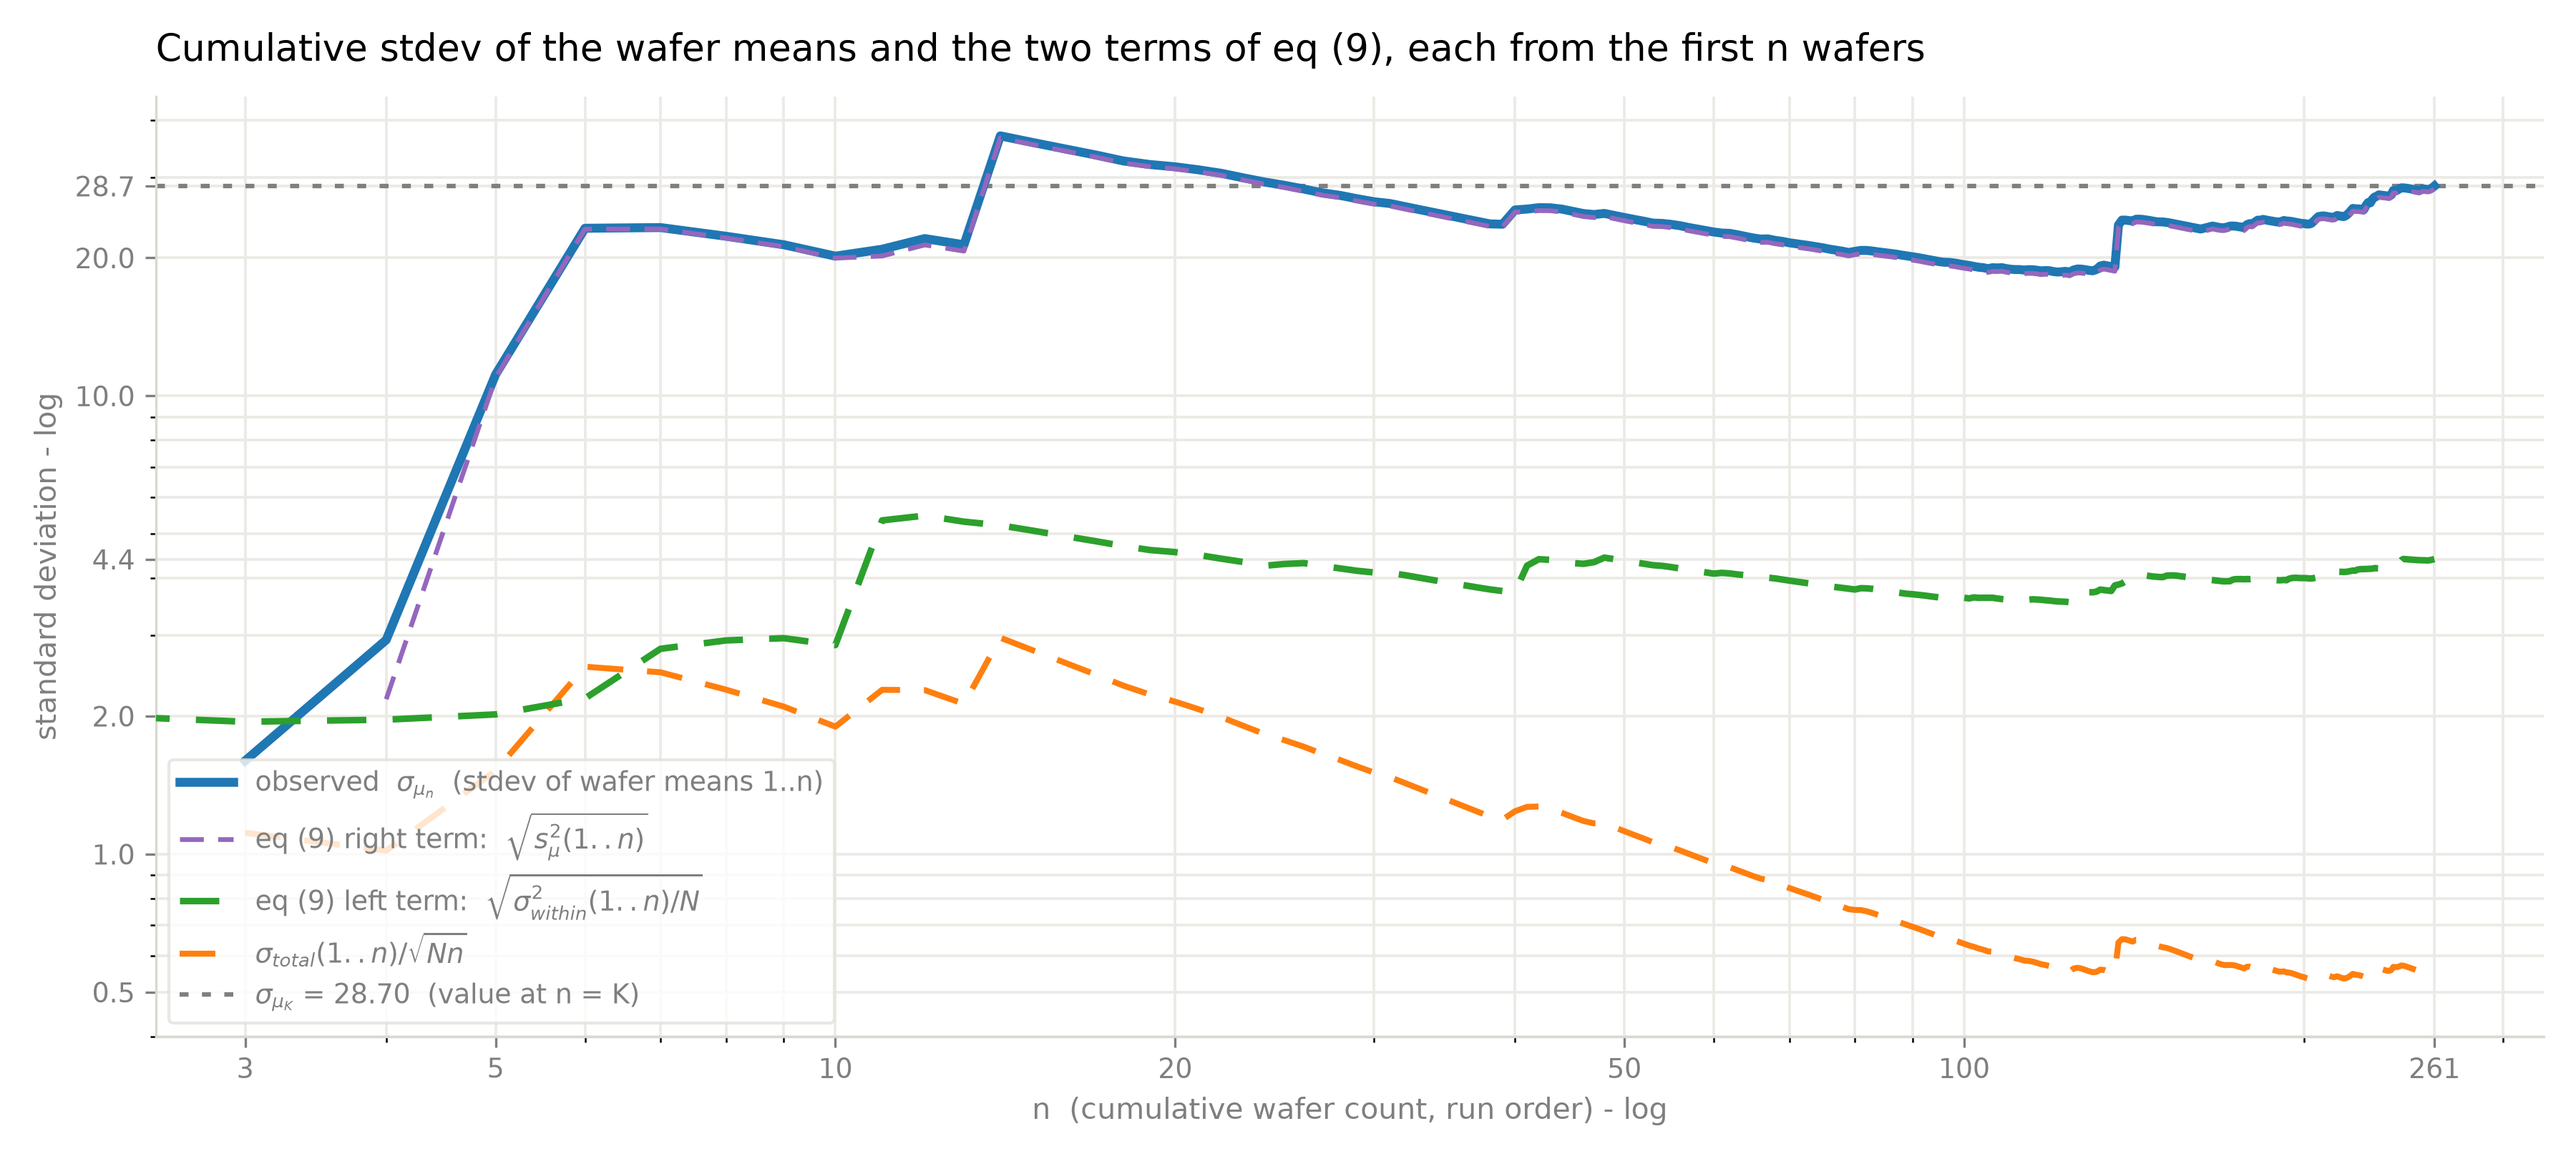
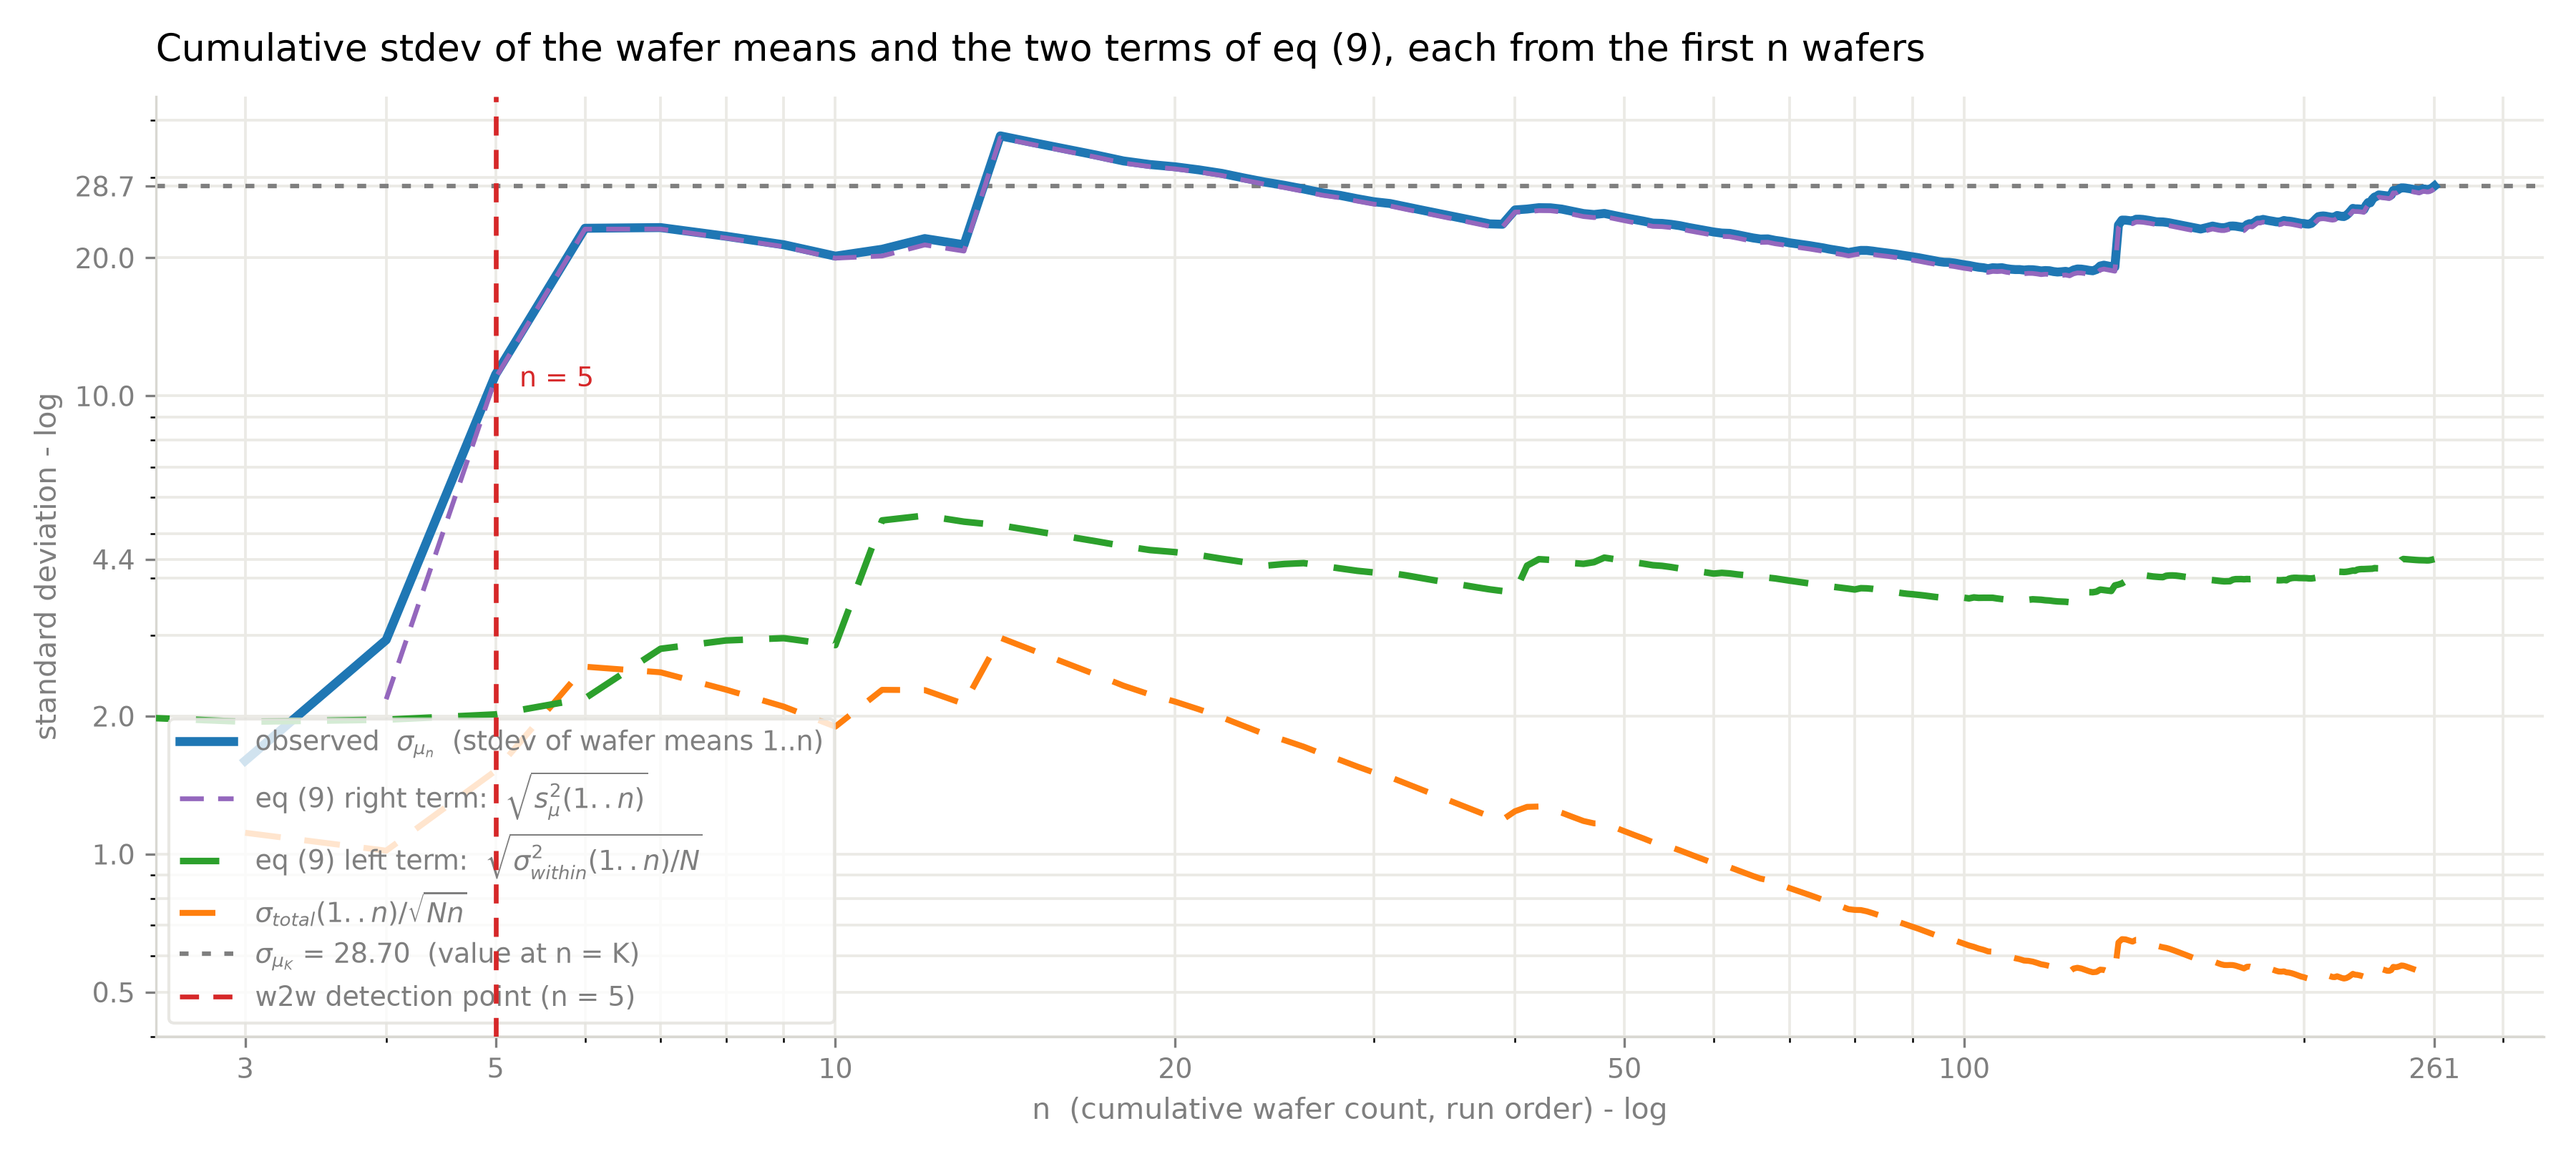
Name and mark the point where the wafer-level term takes over
Call it the w2w detection point, draw it on the figure, and split the text
so that the meaning of each term comes before the reading of the figure.

Claude-Session: https://claude.ai/code/session_01EmRuphkFeGWkDYDUkauFqt

Changed region(s): [[0.0622, 0.6173, 0.3422, 0.8642], [0.1867, 0.3086, 0.2178, 0.3395]]

diff --git a/EDA/Variability/WiW-W2W/wiw_w2w_anova.py b/EDA/Variability/WiW-W2W/wiw_w2w_anova.py
@@ -5,10 +5,11 @@ one-way ANOVA and the variance components, and draws the three figures the docum
 
 Changelog:
 - 0.0.0: initial release.
+- 0.1.0: mark the w2w detection point on the cumulative figure.
 """
 
 __author__ = 'yRocket'
-__version__ = "0.0.0.2026.9.3"
+__version__ = "0.1.0.2026.9.3"
 
 import argparse
 import pathlib
@@ -27,6 +28,7 @@ __all__ = [
     'read_measurements',
     'variance_components',
     'flag_inflated_wafers',
+    'w2w_detection_point',
     'draw_site_value_violin',
     'draw_cumulative_stdev',
     'draw_flagged_wafer_means',
@@ -36,6 +38,7 @@ WAFER_ID_COLUMN: str = 'wafer_id'
 SITE_COLUMN_PATTERN: str = r'^S\d+$'
 BIN_SIZE: int = 15                       # wafers per violin
 MOVING_WINDOW: int = 15                  # wafers per moving average
+DETECTION_RATIO: float = 0.98            # the right term counts as the whole spread above this share of it
 FIGSIZE: tuple = (12.0, 5.4)
 REFERENCE_WIDTH: float = 12.0            # the width BASE_FONT_SIZE was chosen for
 BASE_FONT_SIZE: float = 9.0
@@ -117,6 +120,19 @@ def flag_inflated_wafers(values: np.ndarray, alpha: float = 0.05) -> pd.DataFram
         'p_value': p_value,
         'flagged': p_value < alpha / wafer_count,
     })
+
+
+def w2w_detection_point(observed: np.ndarray, right_term: np.ndarray, ratio: float = DETECTION_RATIO) -> int:
+    """Return the first n from which the wafer-level term carries the whole spread of the wafer means.
+
+    Below that n the site error still accounts for a visible share of the observed spread, so the
+    wafer-to-wafer part cannot be told apart from it.
+    """
+    share = right_term / observed
+    reached = np.flatnonzero(np.nan_to_num(share) >= ratio)
+    if reached.size == 0:
+        raise ValueError(f"the wafer-level term never reaches {ratio:.0%} of the observed spread")
+    return int(reached[0]) + 1
 
 
 def _style_axes(axes: plt.Axes, title: str, xlabel: str, ylabel: str, font_size: float) -> None:
@@ -207,6 +223,11 @@ def draw_cumulative_stdev(frame: pd.DataFrame, figure_path: pathlib.Path) -> Non
               zorder=3, label=r"$\sigma_{total}(1..n)/\sqrt{Nn}$")
     axes.axhline(observed[-1], color=COLOR_INK, lw=1.5, ls=(0, (2, 3)), zorder=2,
                  label=r"$\sigma_{\mu_K}$ = %.2f  (value at n = K)" % observed[-1])
+    detection = w2w_detection_point(observed=observed, right_term=right_term)
+    axes.axvline(detection, color=COLOR_FLAGGED, lw=1.6, ls=(0, (4, 3)), zorder=7,
+                 label=f"w2w detection point (n = {detection})")
+    axes.annotate(f"n = {detection}", (detection, observed[detection - 1]), textcoords="offset points",
+                  xytext=(8, -4), fontsize=font_size, color=COLOR_FLAGGED)
     axes.set_xscale('log')
     axes.set_yscale('log')
     axes.set_xlim(2.5, wafer_count * 1.25)

diff --git a/EDA/Variability/WiW-W2W/wiw-w2w-anova.md b/EDA/Variability/WiW-W2W/wiw-w2w-anova.md
@@ -1,5 +1,5 @@
 # Within-Wafer and Wafer-to-Wafer Variance Decomposition
-Rev. 31 | Created: 2026-09-01 | Updated: 2026-09-03 14:39 CDT
+Rev. 32 | Created: 2026-09-01 | Updated: 2026-09-03 14:42 CDT
 
 > ANOVA (analysis of variance) 는 관측치의 전체 산포를 몇 개의 원인으로 나누어, 어느 원인이 얼마나 기여하는지 수치로 보이는 방법이다.
 
@@ -134,11 +134,13 @@ Fig 2 는 식 (9) 의 두 항을 함께 보인다. 식 (9) 자체를 그리면 $
 
 <img src="wiw-w2w-anova_fig/cum_stdev.png" width="900" style="max-width: 100%;" alt="Fig 2">
 
-Fig 2. Cumulative standard deviation of the wafer means with the two terms of equation (9), each computed from the first n wafers only
+Fig 2. Cumulative standard deviation of the wafer means with the two terms of equation (9) and the w2w detection point, each computed from the first n wafers only
 
-두 항의 크기가 뒤집히는 곳이 $`n = 5`$ 이며, 그 앞뒤의 뜻이 다르다. $`n \le 4`$ 에서는 오른쪽 항이 왼쪽 항과 같은 크기 (n = 4 에서 2.18 대 1.97) 이고 $`n = 3`$ 에서는 관측값이 왼쪽 항보다도 작아 아예 정의되지 않는다. 즉 이 구간에서 본 wafer 평균의 흔들림은 site 오차가 평균에 남긴 몫만으로 설명되며, wafer 사이에 진짜 차이가 있는지 없는지 가릴 수 없다. $`n = 5`$ 부터는 오른쪽 항이 10.95 로 왼쪽 항 2.02 의 5.4 배가 되고 $`n = 6`$ 에서 10 배를 넘어, 이후 관측 곡선은 사실상 wafer 고유 수준의 산포 그 자체이다.
+식 (9) 의 두 항은 서로 다른 것을 잰다. 왼쪽 항 $`\sigma_{within}(1..n)/\sqrt{N}`$ 은 site 를 $`N`$ 개 평균해도 wafer 평균에 남는 측정 잡음이며, wafer 가 모두 같아도 사라지지 않는 바닥이다. 오른쪽 항 $`s_{\mu}(1..n)`$ 은 wafer 마다 다른 고유 수준의 산포, 곧 공정이 wafer 단위로 만든 진짜 차이다. 관측되는 wafer 평균의 산포는 이 둘의 제곱합의 제곱근이므로, 둘 중 어느 쪽이 큰가가 그 산포를 무엇으로 읽을지를 정한다.
 
-공정 관리로 옮기면 이 경계는 판단에 필요한 최소 표본이다. 4 장 이하로 잰 산포는 wafer-to-wafer 를 볼 수 없으므로 그 값으로 관리 한계선을 세우면 산포를 크게 낮춰 잡게 되고, 5 장을 넘어서야 "이 산포는 site 균일도가 아니라 wafer 단위 조건에서 온다" 는 판정이 성립한다. 거꾸로 $`n \le 4`$ 구간에서 산포가 작게 나왔다고 공정이 안정된 것으로 읽으면 안 된다 — 아직 볼 수 있는 것이 site 오차뿐이기 때문이다.
+Fig 2 에서 그 크기가 뒤집히는 곳을 w2w detection point 라 부르며, 오른쪽 항이 관측값의 98% 를 넘는 첫 $`n`$ 으로 잡으면 이 자료에서는 $`n = 5`$ 이다 ($`n = 4`$ 에서 74%, $`n = 5`$ 에서 98%). 그 앞의 $`n \le 4`$ 에서는 오른쪽 항이 왼쪽 항과 같은 크기 ($`n = 4`$ 에서 2.18 대 1.97) 이고 $`n = 3`$ 에서는 관측값이 왼쪽 항보다도 작아 아예 정의되지 않으니, 그 구간의 흔들림은 측정 잡음만으로 설명되고 wafer 사이에 진짜 차이가 있는지 가릴 수 없다. $`n = 5`$ 부터는 오른쪽 항이 10.95 로 왼쪽 항 2.02 의 5.4 배가 되고 $`n = 6`$ 에서 10 배를 넘어, 이후 관측 곡선은 사실상 wafer 고유 수준의 산포 그 자체이다.
+
+공정 관리로 옮기면 w2w detection point 는 판단에 필요한 최소 표본이다. 그 앞에서 잰 산포는 wafer-to-wafer 를 볼 수 없으므로 그 값으로 관리 한계선을 세우면 산포를 크게 낮춰 잡게 되고, 이 점을 넘어서야 "이 산포는 site 균일도가 아니라 wafer 단위 조건에서 온다" 는 판정이 성립한다. 거꾸로 그 앞 구간에서 산포가 작게 나왔다고 공정이 안정된 것으로 읽으면 안 된다 — 아직 볼 수 있는 것이 측정 잡음뿐이기 때문이다.
 
 ## 5. Wafers with Inflated Within-Wafer Spread
 
@@ -177,6 +179,7 @@ Fig 3. Wafer means with the 18 wafers whose within-wafer variance is inflated
 - **site**: 한 wafer 위의 측정 지점. 열 `S1`~`S13` 에 해당.
 - **Var**: variance. 값이 제 평균에서 벗어난 정도를 제곱하여 평균한 값이며, 표준편차의 제곱이다. 관측 수 $`m`$ 인 표본에서는 $`\mathrm{Var}(Y) = \frac{1}{m-1} \sum_{i=1}^{m} (Y_i - \bar{Y})^2`$ 로 계산한다.
 - **w2w**: wafer-to-wafer. wafer 사이의 변동.
+- **w2w detection point**: 오른쪽 항이 관측된 wafer 평균 산포의 98% 를 넘는 첫 $`n`$. 그 앞에서는 wafer 사이의 차이가 측정 잡음에 묻혀 분리되지 않는다.
 - **WiW**: within-wafer. 한 wafer 안 site 사이의 변동.
 
 ## Appendix B. Limits of the Decomposition Coefficients
